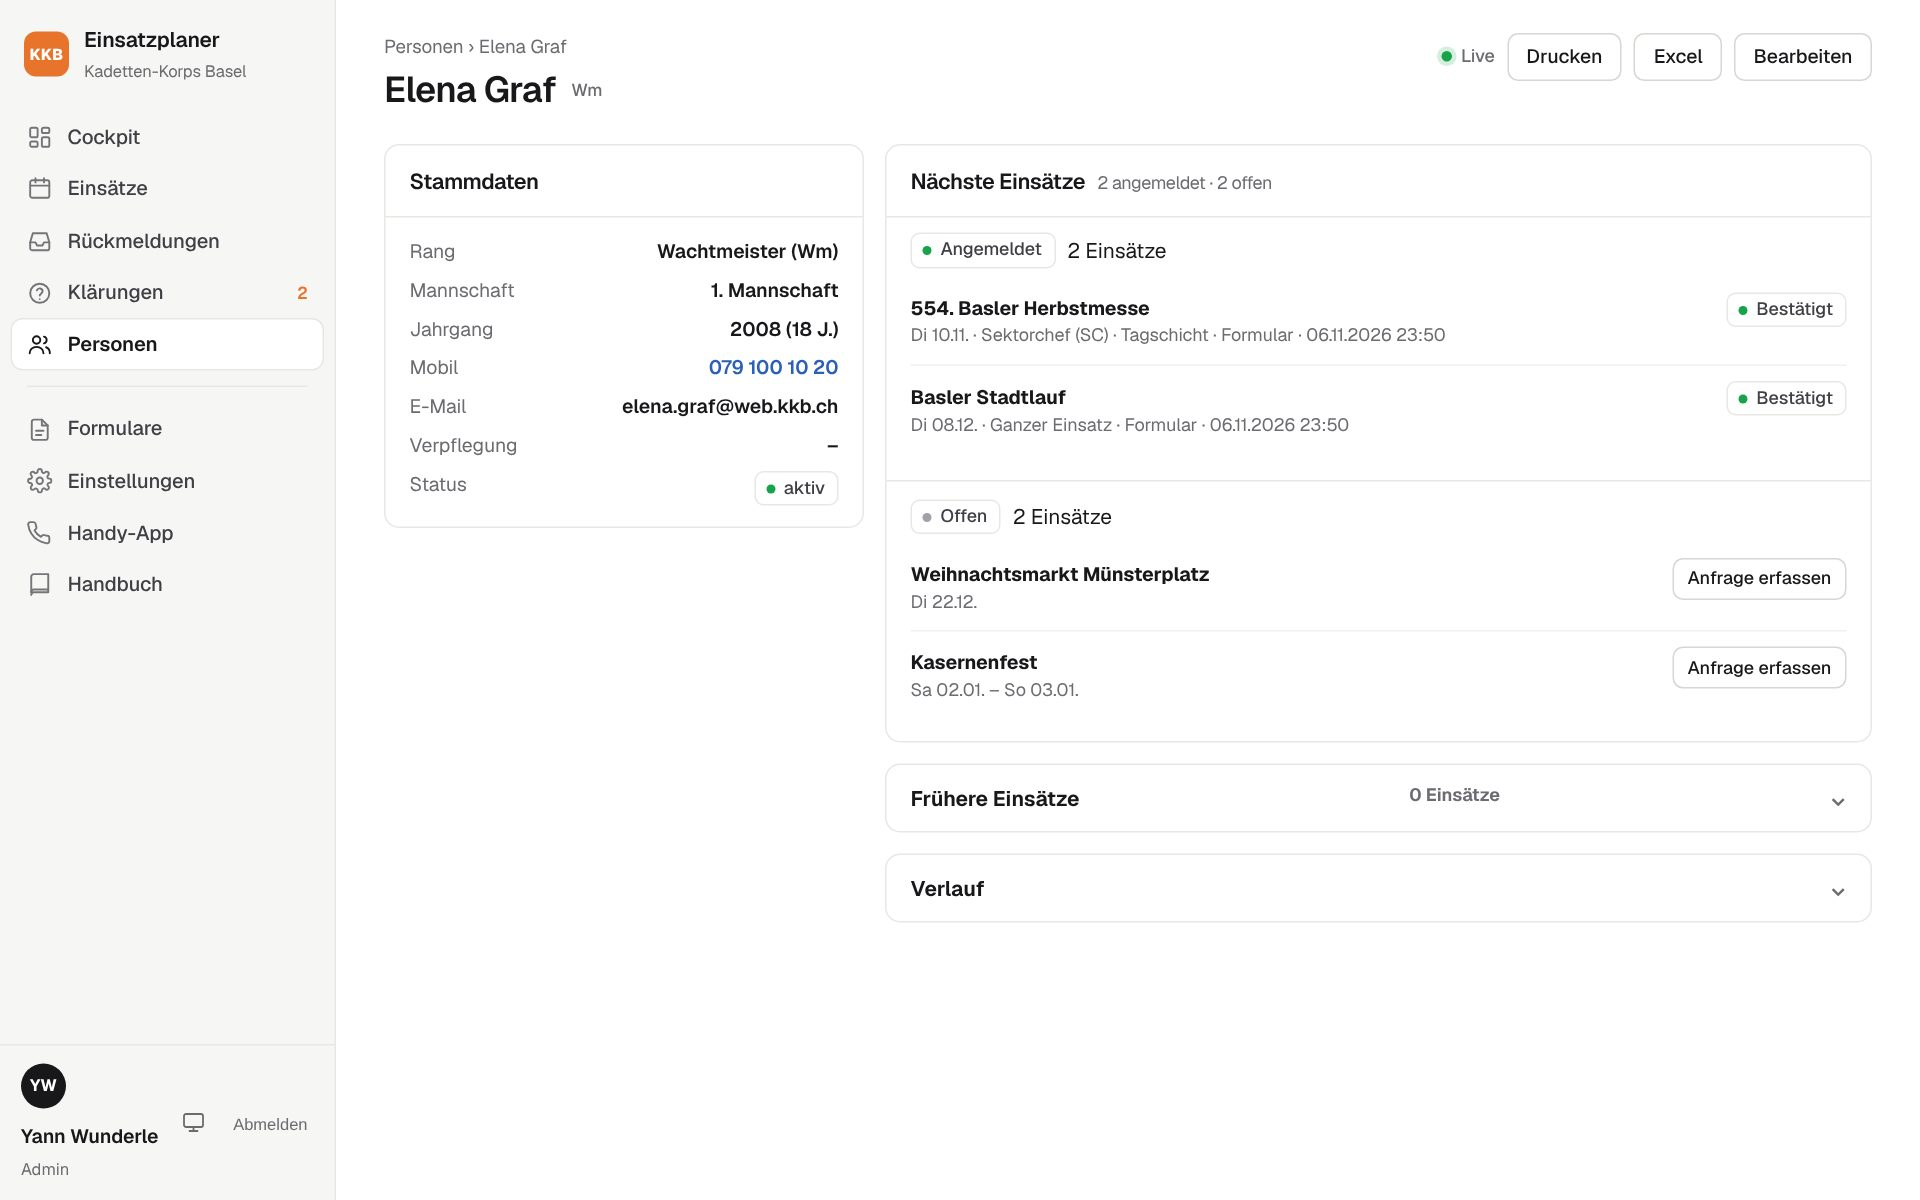
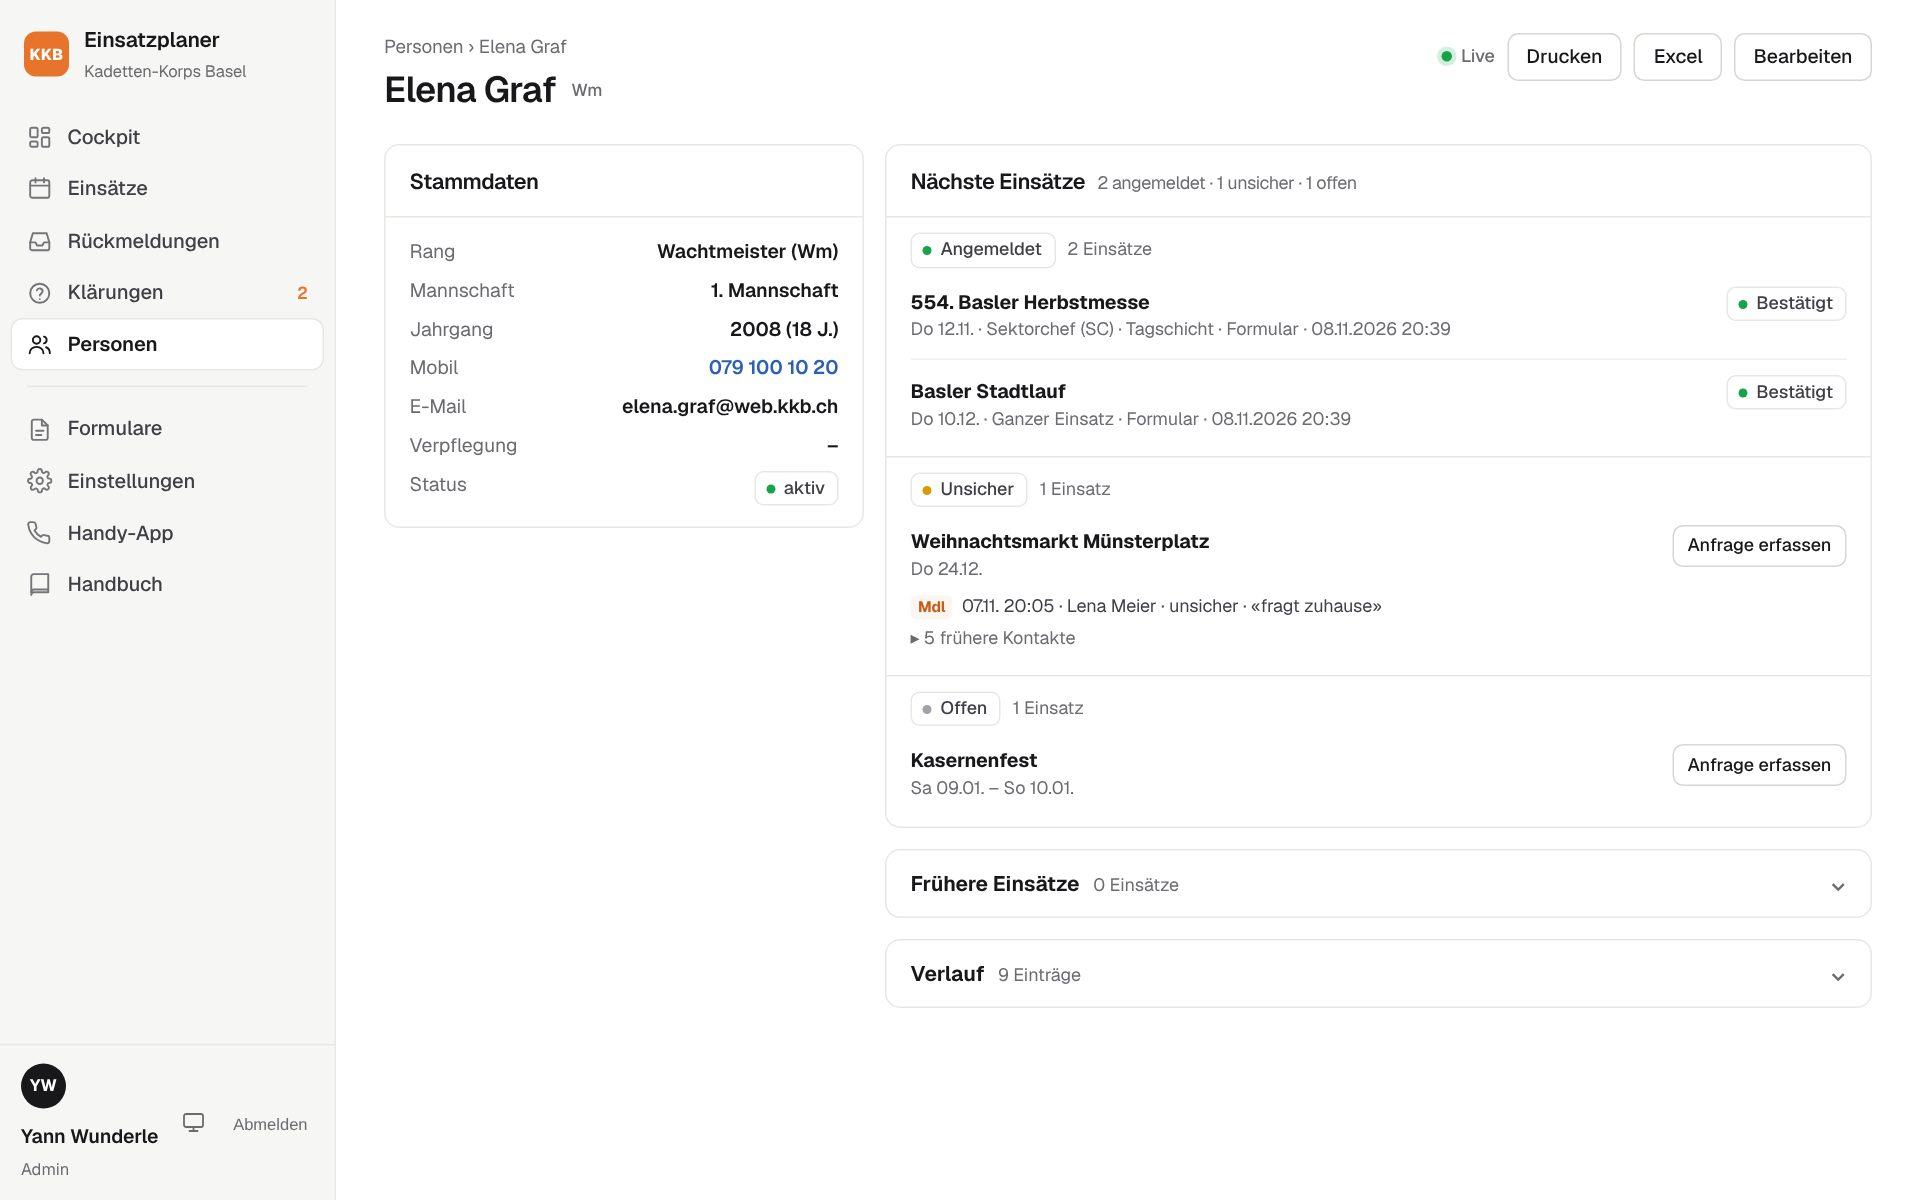
Personen-Seite aufgeräumt: nur neuester Kontakt, gleiche Einträge zusammengefasst, Verlauf gekürzt
Ältere Kontaktversuche sind aufklappbar. Gleiche Einträge stehen einmal mit Anzahl.
Frühere Einsätze und Verlauf zeigen die Anzahl neben dem Titel.
Handbuch und Bild 17 nachgeführt.

Claude-Session: https://claude.ai/code/session_01EBemd3fnoj8De3MxjgYrD1

diff --git a/public/css/ruhig.css b/public/css/ruhig.css
@@ -370,8 +370,18 @@ tr.group-row strong { font-weight: 600; }
 }
 /* Person: eine Liste «Nächste Einsätze» statt vier gleich grosser Karten */
 .person-group-head { display: flex; align-items: center; gap: 8px; padding: 10px 16px 0; }
-.person-group { padding-top: 6px; }
-.person-group + .person-group-head { border-top: 1px solid var(--line); margin-top: 4px; padding-top: 12px; }
+.person-group { padding-top: 2px; padding-bottom: 6px; }
+.person-group + .person-group-head { border-top: 1px solid var(--line); padding-top: 10px; }
+.person-group-head .hint { font-size: 12px; color: var(--muted); }
+/* Person: nur der neueste Kontakt sichtbar, ältere aufklappbar, gleiche zusammengefasst */
+.attempt-count { font-size: 11px; font-weight: 600; color: var(--muted); }
+.attempts-more > summary { cursor: pointer; font-size: 12px; color: var(--muted); list-style: none; width: fit-content; }
+.attempts-more > summary::-webkit-details-marker { display: none; }
+.attempts-more > summary::before { content: "▸ "; }
+.attempts-more[open] > summary::before { content: "▾ "; }
+.attempts-more > summary:hover { color: var(--text); }
+.attempts-more > .attempts { margin-top: 3px; }
+details.collapse > summary .hint { margin-left: 6px; font-size: 12px; font-weight: 400; color: var(--muted); }
 /* Rückmeldungen: Legende immer sichtbar, eine Zeile über der Tabelle */
 .fb-legend { gap: 6px 14px; color: var(--muted); }
 .fb-legend-title { font-weight: 600; color: var(--text); }

diff --git a/public/css/app.css b/public/css/app.css
@@ -465,6 +465,8 @@ dialog { background: var(--card); color: var(--text); }
   th { background: #fff; }
   details.collapse { display: block; }
   details.collapse > * { display: block; }
+  .attempts-more > .attempts { display: flex; }
+  .attempts-more > summary { display: none; }
 }
 .card-danger { border-color: var(--red-border); }
 .card-danger .card-head h2 { color: var(--red); }

diff --git a/docs/handbuch/handbuch.md b/docs/handbuch/handbuch.md
@@ -644,7 +644,10 @@ Der Einsatzplaner speichert die Filter und die Ansicht («Tabelle» oder «Pro E
 - Links die wichtigsten **Stammdaten**.
 - Rechts die Liste **Nächste Einsätze**, gruppiert nach **Angemeldet, Abgemeldet, Unsicher und Offen**, jeweils mit Datum und wie die Rückmeldung kam. Leere Gruppen fallen weg.
 - Offene Einsätze lassen sich direkt mit **Anfrage erfassen** nachfassen.
-- **Frühere Einsätze** und der **Verlauf** sind zuklappbar. Die Seite lässt sich drucken und nach Excel exportieren.
+- Pro Einsatz steht nur der **neueste Kontaktversuch**. Ein Klick auf **«N frühere Kontakte»** zeigt die älteren, der neueste zuoberst.
+- Gleiche Einträge (gleicher Kanal, gleiche Minute, gleiche Person, gleiches Ergebnis) stehen nur einmal, mit der Anzahl dahinter, z. B. **3×**.
+- **Frühere Einsätze** und der **Verlauf** sind zugeklappt. Neben dem Titel steht die Anzahl. Der Verlauf zeigt zuerst die 10 neuesten Einträge, **Ältere anzeigen** zeigt den Rest.
+- Die Seite lässt sich drucken und nach Excel exportieren. Beim Drucken erscheinen alle Kontaktversuche.
 
 ## 14 · Teilnehmerliste und Verpflegungsliste
 
